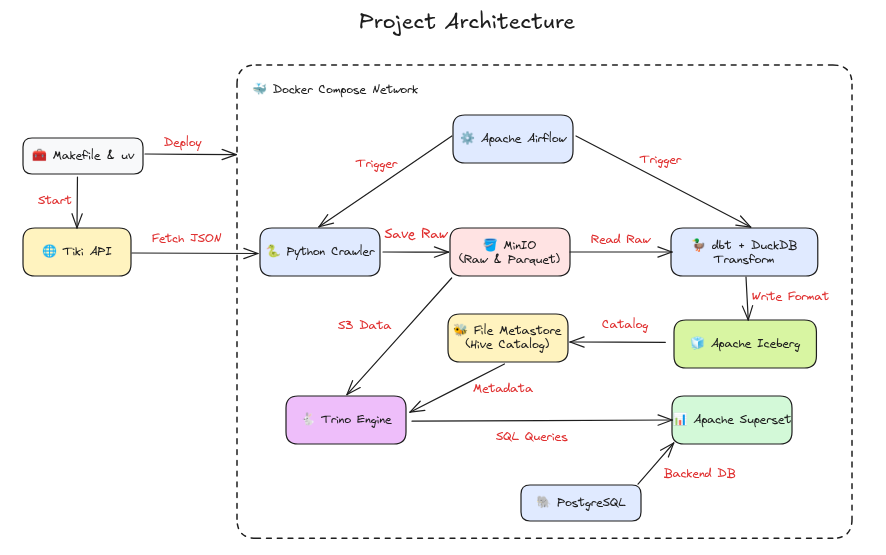
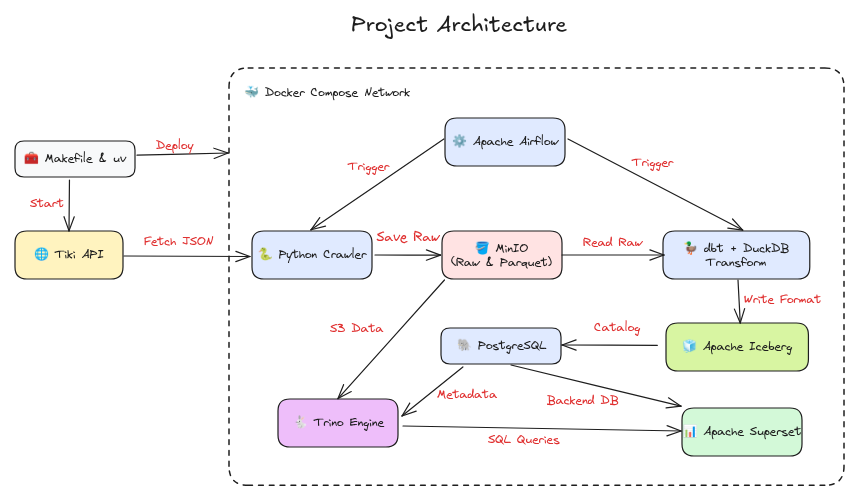
update: excalidraw

diff --git a/README.md b/README.md
@@ -34,13 +34,13 @@ This project implements a **Modern Data Stack (MDS)** Lakehouse architecture to 
 
 | Layer | Component | Technology | Description |
 | :--- | :--- | :---: | :--- |
-| **Ingestion** | Crawler | 🐍 Python | Scrapes Tiki API, sanitizes data, and uploads to MinIO as `Parquet`. |
-| **Storage** | Object Store | 🪣 MinIO | S3-compatible storage for Raw (Bronze) and Iceberg (Silver/Gold) layers. |
-| **Metadata** | Metastore | 🐘 Postgres | Stores Iceberg metadata and Trino catalog info. |
-| **Compute** | SQL Engine | ⚡ Trino | Distributed engine for querying Iceberg tables via SQL. |
-| **Transform** | Data Modeling | 🔨 dbt + DuckDB | Transforms raw JSON/Parquet into structured analytics models. |
-| **Orchestration** | Scheduler | 🌬️ Airflow | Orchestrates the full Crawl -> Transform -> Analytics flow. |
-| **Visualization** | BI Tool | 📊 Superset | Connected to Trino for building interactive dashboards. |
+| **Ingestion** | Crawler | 🐍 Python | Scrapes Tiki API, sanitizes nested data, and uploads to MinIO as `Parquet`. |
+| **Storage** | Object Store | 🪣 MinIO | S3-compatible storage hosting both raw data (Bronze) and transformed data (Gold). |
+| **Metadata** | Metastore | 🐘 Postgres | Dual role: (1) JDBC Catalog storing Iceberg table metadata for Trino, (2) Backend DB for Superset. |
+| **Compute** | SQL Engine | ⚡ Trino | Distributed SQL engine querying data on MinIO via the Iceberg catalog (backed by Postgres). |
+| **Transform** | Data Modeling | 🔨 dbt + DuckDB | Reads raw Parquet from MinIO, transforms and writes cleaned external Parquet files back to MinIO. Runs **outside** Docker. |
+| **Orchestration** | Scheduler | 🌬️ Airflow | Orchestrates the daily pipeline: Crawl → Transform → Analytics. |
+| **Visualization** | BI Tool | 📊 Superset | Connects to Trino (`iceberg` catalog) for interactive dashboards. |
 
 ---
 
@@ -60,7 +60,7 @@ tiki-lakehouse/
 │   ├── dbt_project.yml      
 │   └── profiles.yml         # DuckDB S3 configuration
 ├── trino/                   # Trino configuration (Catalogs, Node, etc.)
-│   └── etc/catalog/         # Iceberg & Hive catalog properties
+│   └── etc/catalog/         # Iceberg catalog (active) & Hive catalog (pre-configured, unused)
 ├── Makefile                 # Shortcut commands for orchestration
 ├── docker-compose.yml       # Infrastructure (MinIO, Trino, Postgres, Superset)
 ├── run_project.sh           # One-click initialization script
@@ -117,10 +117,10 @@ make dbt-run          # Transform data to Iceberg tables
 
 ## 📊 Data Pipeline Flow
 
-1.  **Bronze Layer (Raw)**: `crawler/fetch_tiki.py` fetches data from Tiki's listing API. It handles nested structures by stringifying complex objects and saves them as **Parquet** files in the `raw-data` bucket in MinIO.
-2.  **Silver Layer (Staging)**: dbt staging models (`stg_tiki_books.sql`) read raw Parquet files, cast types, and flatten nested JSON strings using DuckDB's JSON extensions.
-3.  **Gold Layer (Marts)**: Final fact tables (`fct_tiki_books.sql`) are materialized as **Apache Iceberg** tables in MinIO. These are optimized for high-performance querying.
-4.  **Analytics**: Trino queries the Gold layer, and Superset visualizes it. A separate `analytics_plot.py` script can also be used to generate static charts.
+1.  **Bronze Layer (Raw)**: `crawler/fetch_tiki.py` fetches data from Tiki's listing API. It stringifies nested objects (dict/list) for Parquet compatibility and uploads to `s3://raw-data/tiki_products/` in MinIO.
+2.  **Silver Layer (Staging)**: dbt staging model (`stg_tiki_books.sql`) reads all raw Parquet files via DuckDB's `READ_PARQUET('s3://...')`, casts types with `TRY_CAST`, and extracts `quantity_sold` from stringified dicts using `REGEXP_EXTRACT`.
+3.  **Gold Layer (Marts)**: Fact table (`fct_tiki_books.sql`) is materialized as an **external Parquet file** at `s3://raw-data/marts/fct_tiki_books.parquet`. This is done by dbt + DuckDB directly (not via Trino).
+4.  **Serving**: Trino queries the Gold layer via its **Iceberg catalog** (metadata stored in PostgreSQL). Superset connects to Trino for interactive dashboards. A separate `analytics_plot.py` uses DuckDB to generate static charts.
 
 ---
 
@@ -152,20 +152,33 @@ The DAG `tiki_lakehouse_daily_pipeline` will appear in the UI, managing the sequ
 
 ## 🖼️ Screenshots Gallery
 
-### 1. Ingestion & Storage
+### 1. Tiki Product Listings
+<img src="images/01-tiki-listings.png" width="800" alt="Tiki Listings">
+
+### 2. Run Project Script
+<img src="images/02-run-project.png" width="800" alt="Run Project">
+
+### 3. Sample Crawled Data
+<img src="images/03-sample-data.png" width="800" alt="Sample Data">
+
+### 4. MinIO S3 Storage
+<img src="images/04-s3-storage.png" width="800" alt="MinIO S3 Storage">
+
+### 5. Superset — Connect & Visualize
 <p align="center">
-  <img src="images/01-tiki-listings.png" width="45%" alt="Tiki Listings">
-  <img src="images/04-s3-storage.png" width="45%" alt="MinIO S3 Storage">
+  <img src="images/05.01-superset-connect-trino.png" width="45%">
+  <img src="images/05.02-superset-connect-hive.png" width="45%">
+</p>
+<p align="center">
+  <img src="images/05.03-superset-create-dataset.png" width="45%">
+  <img src="images/05.04-superset-demo-chart.png" width="45%">
 </p>
 
-### 2. Infrastructure & Analytics
-<p align="center">
-  <img src="images/02-run-project.png" width="45%" alt="Run Project">
-  <img src="images/top_10_books.png" width="45%" alt="Analytics Plot">
-</p>
+### 6. Superset Dashboard
+<img src="images/05.04-superset-demo-dashboard.png" width="800" alt="Superset Dashboard">
 
-### 3. Superset Dashboards
-<img src="images/05.04-superset-demo-dashboard.png" width="100%" alt="Superset Dashboard">
+### 7. Analytics — Top 10 Best-Selling Books
+<img src="images/top_10_books.png" width="800" alt="Analytics Plot">
 
 ---
 